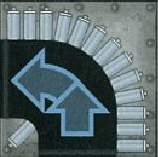
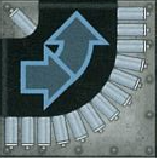
Add conveyor belt drawing to SpaceView

diff --git a/src/main/java/dk/dtu/compute/se/pisd/roborally/view/SpaceView.java b/src/main/java/dk/dtu/compute/se/pisd/roborally/view/SpaceView.java
@@ -23,6 +23,7 @@ package dk.dtu.compute.se.pisd.roborally.view;
 
 import dk.dtu.compute.se.pisd.designpatterns.observer.Subject;
 import dk.dtu.compute.se.pisd.roborally.controller.CheckPoint;
+import dk.dtu.compute.se.pisd.roborally.controller.ConveyorBelt;
 import dk.dtu.compute.se.pisd.roborally.controller.PrioAntenna;
 import dk.dtu.compute.se.pisd.roborally.model.Heading;
 import dk.dtu.compute.se.pisd.roborally.model.Player;
@@ -47,6 +48,7 @@ public class SpaceView extends StackPane implements ViewObserver {
 	final public static Image wallTexture;
 	final public static Image antennaTexture;
 	final public static Image[] checkpointTextures;
+	final public static Image[] conveyorTextures;
 
     final public static int SPACE_HEIGHT = 60; // 75;
     final public static int SPACE_WIDTH = 60; // 75;
@@ -101,6 +103,24 @@ public class SpaceView extends StackPane implements ViewObserver {
 		} else if (space.getElement() instanceof CheckPoint cp) {
 			assert cp.checkPointNr <= 8;
 			tile.setImage(checkpointTextures[cp.checkPointNr - 1]);
+		} else if (space.getElement() instanceof ConveyorBelt belt) {
+			int index = 0;
+			Space neighbour;
+			// Check if there's another conveyor pointing to this one on each of the neighbour spaces
+			neighbour = space.board.getNeighbour(space, belt.getHeading().prev());
+			if (neighbour != null && neighbour.getElement() instanceof ConveyorBelt neighbourBelt
+				&& neighbourBelt.getHeading() == belt.getHeading().next())
+				index |= 1;
+			neighbour = space.board.getNeighbour(space, belt.getHeading().next());
+			if (neighbour != null && neighbour.getElement() instanceof ConveyorBelt neighbourBelt
+				&& neighbourBelt.getHeading() == belt.getHeading().prev())
+				index |= 2;
+			neighbour = space.board.getNeighbour(space, belt.getHeading().opposite());
+			if (neighbour != null && neighbour.getElement() instanceof ConveyorBelt neighbourBelt
+				&& neighbourBelt.getHeading() == belt.getHeading())
+				index |= 4;
+			tile.setImage(conveyorTextures[index]);
+			tile.setRotate(90 * (belt.getHeading().ordinal() + 2));
 		}
 	}
 
@@ -138,6 +158,15 @@ public class SpaceView extends StackPane implements ViewObserver {
 		for (int i = 1; i <= 8; i++) {
 			checkpointTextures[i - 1] = new Image(loader.getResourceAsStream("assets/" + i + ".png"));
 		}
+		conveyorTextures = new Image[8];
+		conveyorTextures[0] = new Image(loader.getResourceAsStream("assets/green.png"));
+		conveyorTextures[1] = new Image(loader.getResourceAsStream("assets/greenTurnLeft.png"));
+		conveyorTextures[2] = new Image(loader.getResourceAsStream("assets/greenTurnRight.png"));
+		conveyorTextures[3] = new Image(loader.getResourceAsStream("assets/greenMergeSide.png"));
+		conveyorTextures[4] = conveyorTextures[0];
+		conveyorTextures[5] = new Image(loader.getResourceAsStream("assets/greenMergeLeft.png"));
+		conveyorTextures[6] = new Image(loader.getResourceAsStream("assets/greenMergeRight.png"));
+		conveyorTextures[7] = conveyorTextures[0];
 	}
 
 }
